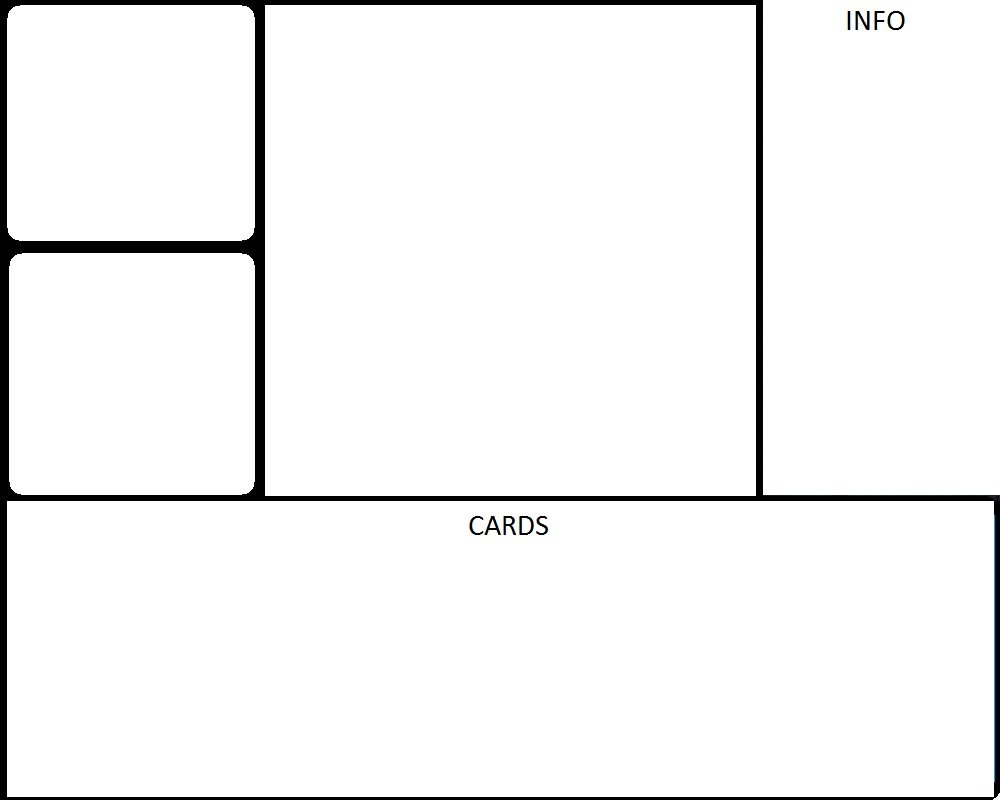
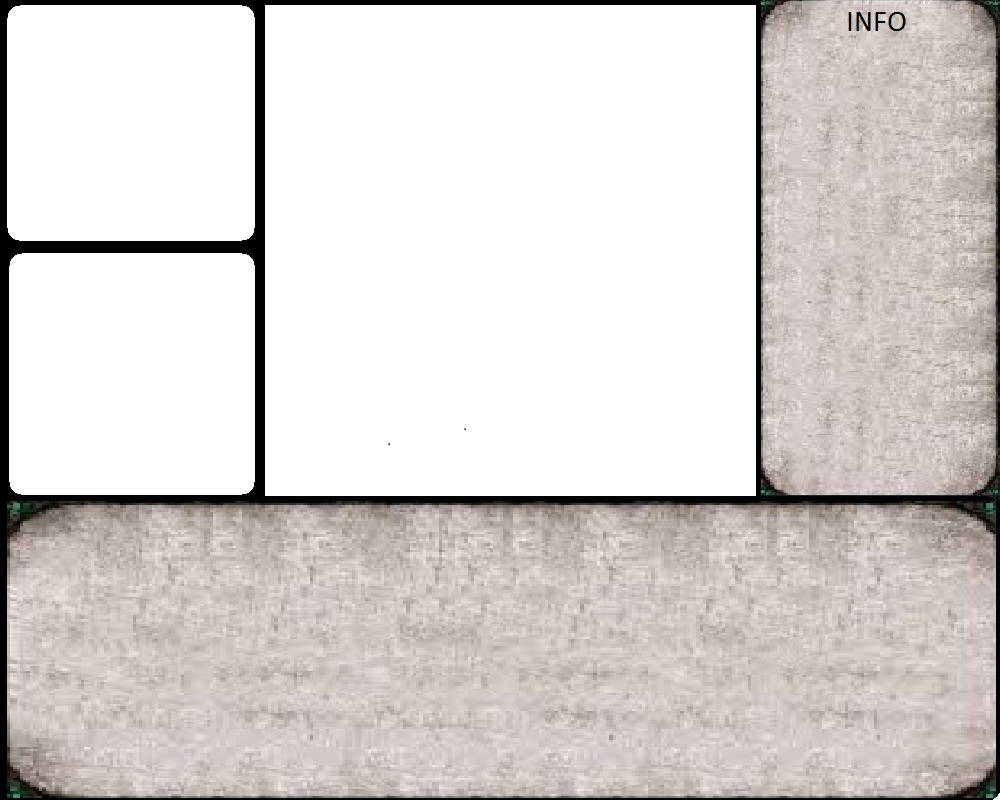
Even more changes on 12.05.... *Created a new class for cardslots; figured it would make things a lot easier. *Implemented card creating. Function for it in gameScene is currently getCardDisplayImage, but it will eventually come from cardSlot class. *Changed around the GUIframe a bit, to make it loo

diff --git a/src/main/java/userinterface/GameScene.java b/src/main/java/userinterface/GameScene.java
@@ -200,23 +200,42 @@ class GameScene extends Scene {
      */
     private void setCardSlotImages() {
         for (int cardSlot = 0; cardSlot < PlayerHand.getMaximumHandSize(); cardSlot++) {
-            ImageView cardImageView;
+            Group cardPicture;
             if (cardSlot < currentPlayer.getPlayerHand().getCardsInHand().size()) {
                 Card cardInHand = currentPlayer.getPlayerHand().getCardsInHand().get(cardSlot);
                 if(cardInHand instanceof MinionCard){
                     ((MinionCard) cardInHand).setSide(currentPlayer.getSide());
+                    cardPicture = getCardDisplayImage(cardInHand);
+                    cardPicture.setLayoutX(cardSlot * PlayerHand.getPreferredCardWidth() + PlayerHand.getLeftMostPixelValue());
+                    cardPicture.setLayoutY(PlayerHand.getTopMostPixelValue());
+                    parentGroup.getChildren().add(cardPicture);
                 }
-                cardImageView = new ImageView(cardInHand.getImage());
-                cardImageView.setFitHeight(PlayerHand.getPreferredCardHeight());
-                cardImageView.setFitWidth(PlayerHand.getPreferredCardWidth());
-            } else {
-                cardImageView = new ImageView(new Image("sampleCard.png"));
             }
-            cardImageView.setX(cardSlot * PlayerHand.getPreferredCardWidth() + PlayerHand.getLeftMostPixelValue());
-            cardImageView.setY(PlayerHand.getTopMostPixelValue());
-            parentGroup.getChildren().add(cardImageView);
-        }
 
+        }
+    }
+
+    private Group getCardDisplayImage(Card card){
+        Group cardGroup = new Group();
+
+        ImageView cardImageView = new ImageView(card.getImage());
+        cardImageView.setFitHeight(PlayerHand.getPreferredCardHeight());
+        cardImageView.setFitWidth(PlayerHand.getPreferredCardWidth());
+
+        ImageView cardFrame = new ImageView(new Image("cardFrame.png"));
+        cardFrame.setFitHeight(PlayerHand.getPreferredCardHeight());
+        cardFrame.setFitWidth(PlayerHand.getPreferredCardWidth());
+
+        int nameXAdjustment = 35, nameYAdjustment = 20;
+        Text minionName = new Text(nameXAdjustment, nameYAdjustment, card.getName());
+        int nameLength = card.getName().length();
+        double fontFunction = 30/(1 + nameLength/10.0);
+        minionName.setFont(new Font(fontFunction));
+        minionName.setFill(Color.WHITE);
+
+        cardGroup.getChildren().addAll(cardImageView, cardFrame, minionName);
+
+        return cardGroup;
     }
 
     /**
@@ -480,7 +499,6 @@ class GameScene extends Scene {
             Square target = gameBoard.getBoardBySquares().get(Square.pointToSquare1DPosition(squareCoordinates));
             gameBoard.moveCardIfPossible(gameBoard.getPreviouslySelectedSquare(), target);
             updateAllSquares();
-
         }
     }
 

diff --git a/src/main/java/userinterface/CardSlot.java b/src/main/java/userinterface/CardSlot.java
@@ -1,0 +1,46 @@
+package userinterface;
+
+import card.Card;
+import javafx.scene.Group;
+import javafx.scene.image.Image;
+import javafx.scene.image.ImageView;
+import javafx.scene.paint.Color;
+import javafx.scene.text.Font;
+import javafx.scene.text.Text;
+
+public class CardSlot {
+    private int slotNumber;
+    private double slotWidth = 140, slotHeight = 250;
+    private Card card;
+    private Group imageGroup = new Group();
+
+    public CardSlot(int slotNumber, Card card) {
+        this.slotNumber = slotNumber;
+        this.card = card;
+        imageGroup.getChildren().add(new ImageView(new Image("emptySlot.jpg")));
+    }
+
+    public void setCardSlotImage(){
+        ImageView cardImageView = new ImageView(card.getImage());
+        cardImageView.setFitHeight(slotHeight);
+        cardImageView.setFitWidth(slotWidth);
+
+        ImageView cardFrame = new ImageView(new Image("cardFrame.png"));
+        cardFrame.setFitHeight(slotHeight);
+        cardFrame.setFitWidth(slotWidth);
+
+        int nameXAdjustment = 35, nameYAdjustment = 20;
+        Text minionName = new Text(nameXAdjustment, nameYAdjustment, card.getName());
+        int nameLength = card.getName().length();
+        double fontFunction = 30/(1 + nameLength/10.0);
+        minionName.setFont(new Font(fontFunction));
+        minionName.setFill(Color.WHITE);
+
+        imageGroup.getChildren().removeAll();
+        imageGroup.getChildren().addAll(cardImageView, cardFrame, minionName);
+    }
+
+    public Group getCardSlotImage(){
+        return this.imageGroup;
+    }
+}
